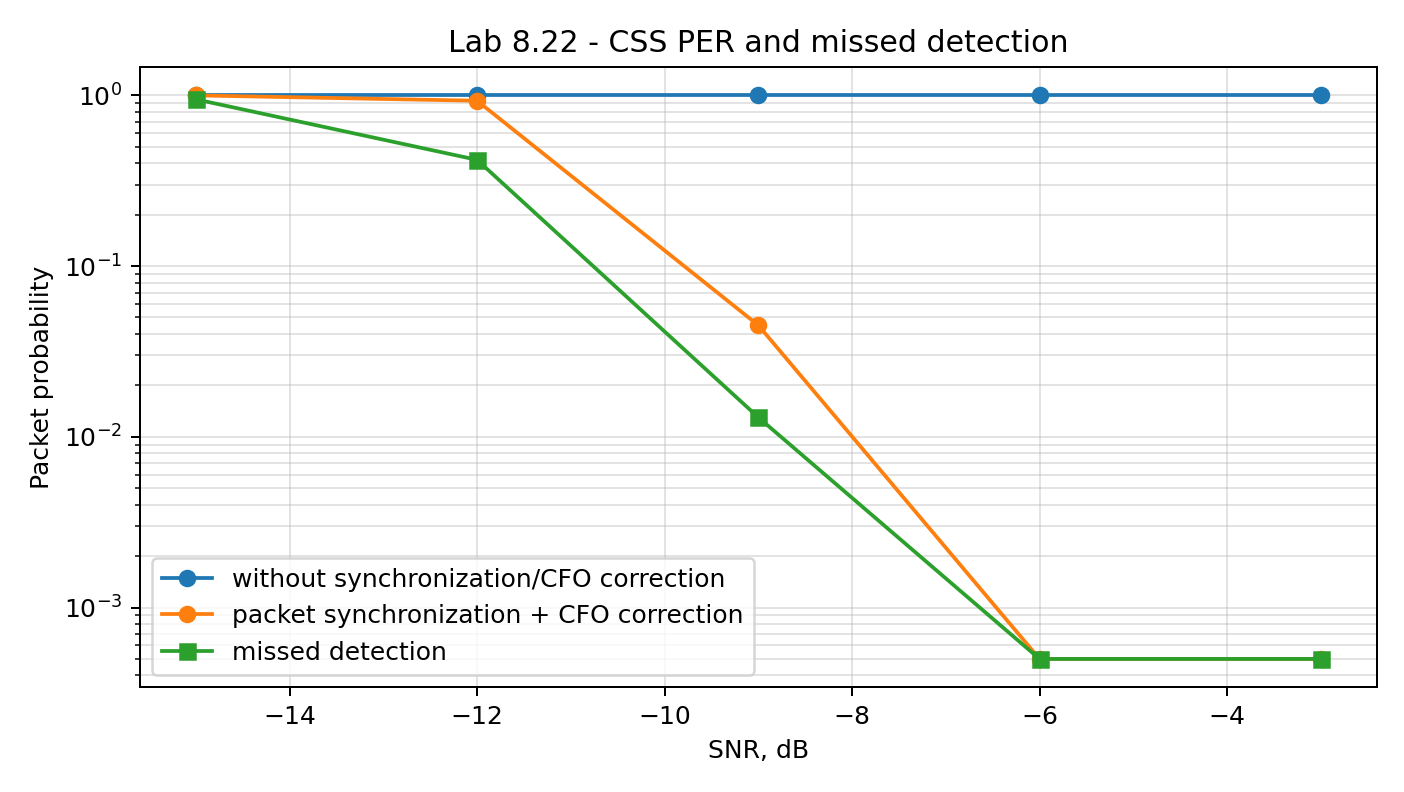
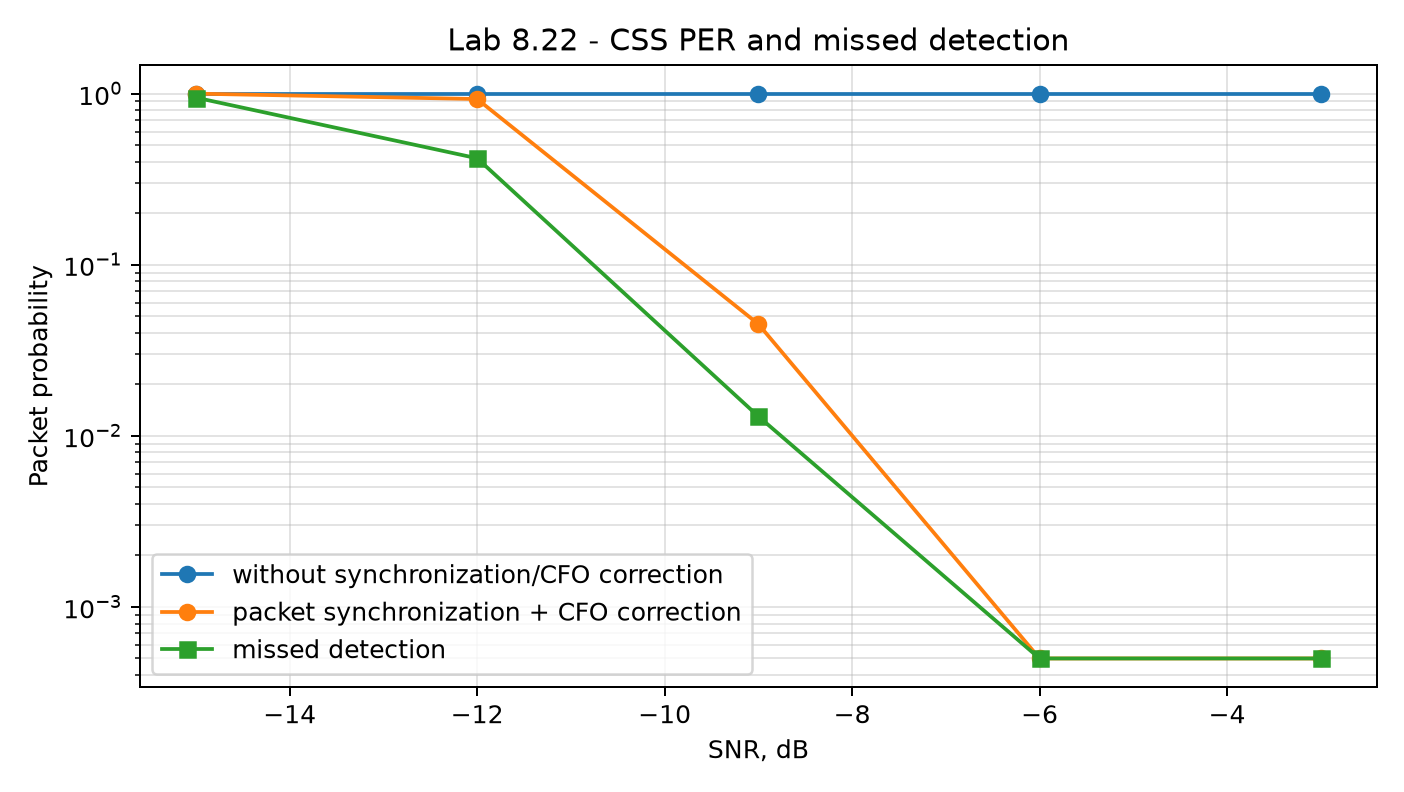
Lab 8.22: regenerate figures with the pinned Matplotlib and drop version metadata
The committed PNGs predate the matplotlib==3.11.2 pin and differed in pixels
from a fresh run (the metrics JSON is unchanged). Saved without the version
metadata, the figures are now byte-identical across runs.

diff --git a/blocks/block_08_modulation_and_synchronization/python/lab_8_22_css_packet_sync_per.py b/blocks/block_08_modulation_and_synchronization/python/lab_8_22_css_packet_sync_per.py
@@ -428,7 +428,7 @@ def save_plots(
     plt.title("Lab 8.22 - CSS packet-start timing metric")
     plt.legend()
     plt.tight_layout()
-    plt.savefig(ASSET_DIR / "lab822_css_timing_metric.png", dpi=180)
+    plt.savefig(ASSET_DIR / "lab822_css_timing_metric.png", dpi=180, metadata={"Software": None})
     plt.close()
 
     plt.figure(figsize=(7.8, 4.4))
@@ -461,7 +461,7 @@ def save_plots(
     plt.title("Lab 8.22 - CSS PER and missed detection")
     plt.legend()
     plt.tight_layout()
-    plt.savefig(ASSET_DIR / "lab822_css_per_vs_snr.png", dpi=180)
+    plt.savefig(ASSET_DIR / "lab822_css_per_vs_snr.png", dpi=180, metadata={"Software": None})
     plt.close()
 
     plt.figure(figsize=(7.8, 4.4))
@@ -483,7 +483,7 @@ def save_plots(
     plt.title(f"Lab 8.22 - SRO sensitivity at {cfg.sro_snr_db:.0f} dB")
     plt.legend()
     plt.tight_layout()
-    plt.savefig(ASSET_DIR / "lab822_css_sro_sensitivity.png", dpi=180)
+    plt.savefig(ASSET_DIR / "lab822_css_sro_sensitivity.png", dpi=180, metadata={"Software": None})
     plt.close()
 
 
